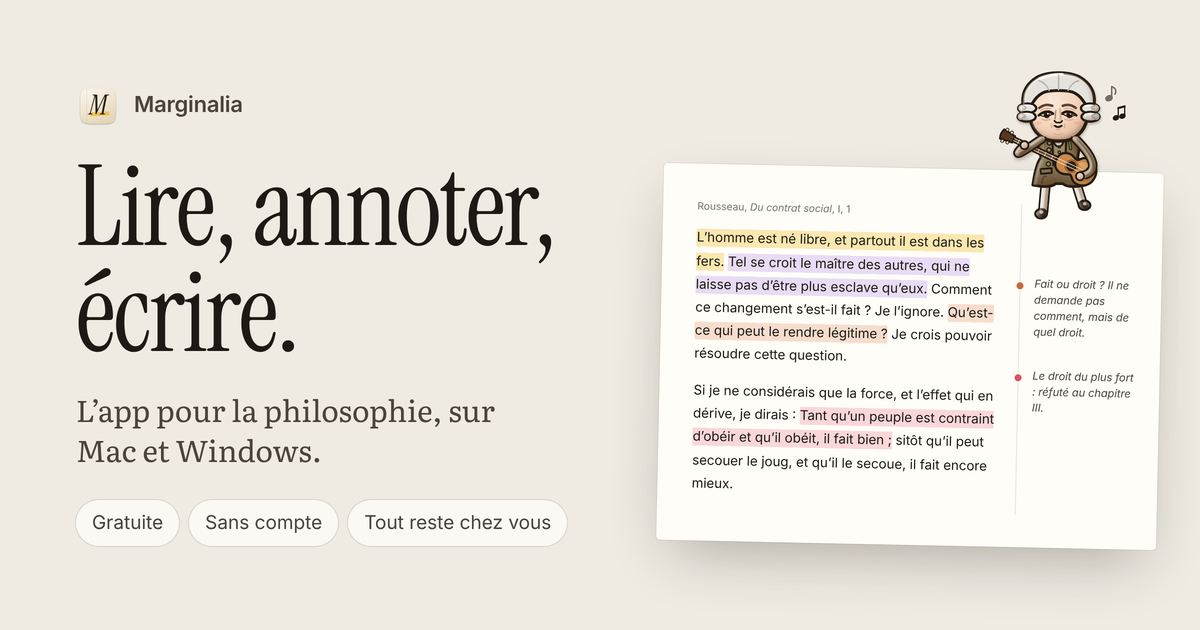
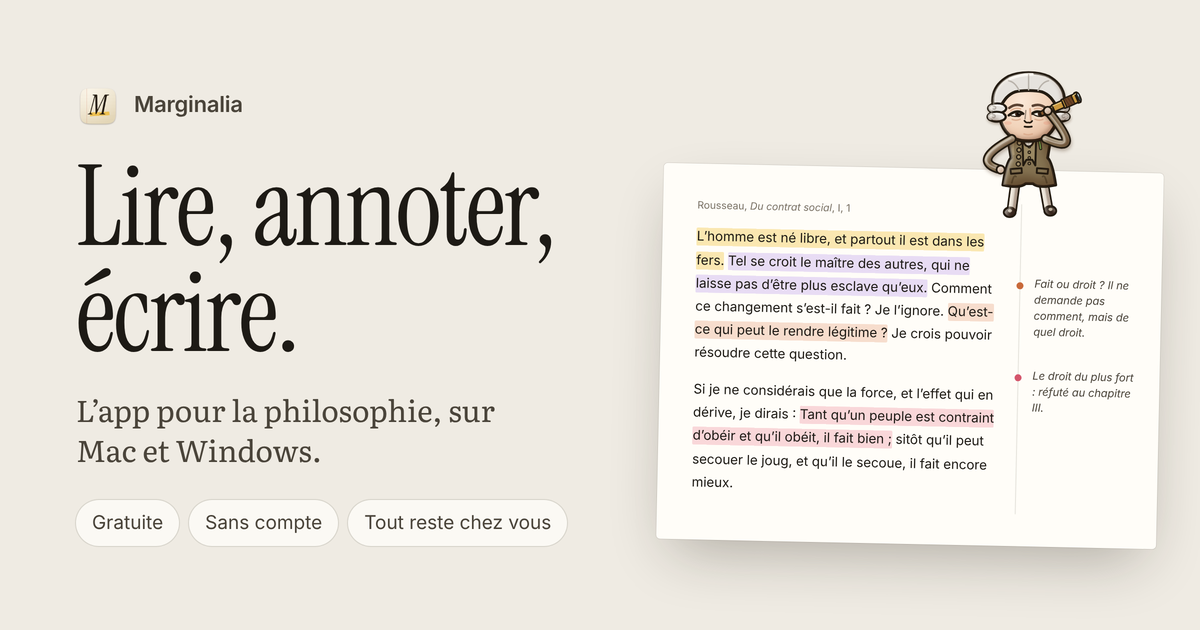
Site : Rousseau à la longue-vue, assis, sur l'aperçu de lien
Claude-Session: https://claude.ai/code/session_01Sei4Hk5zrYgyioUhAQVXiS

diff --git a/site/index.html b/site/index.html
@@ -14,7 +14,7 @@
     <meta property="og:image" content="https://marginalia-bice.vercel.app/og.png" />
     <meta property="og:image:width" content="1200" />
     <meta property="og:image:height" content="630" />
-    <meta property="og:image:alt" content="Marginalia : lire, annoter, écrire. Rousseau joue de la guitare sur une page annotée du Contrat social." />
+    <meta property="og:image:alt" content="Marginalia : lire, annoter, écrire. Rousseau, assis sur une page annotée du Contrat social, scrute l’horizon à la longue-vue." />
     <meta name="twitter:card" content="summary_large_image" />
     <meta name="twitter:image" content="https://marginalia-bice.vercel.app/og.png" />
     <meta name="theme-color" content="#b5893f" />
